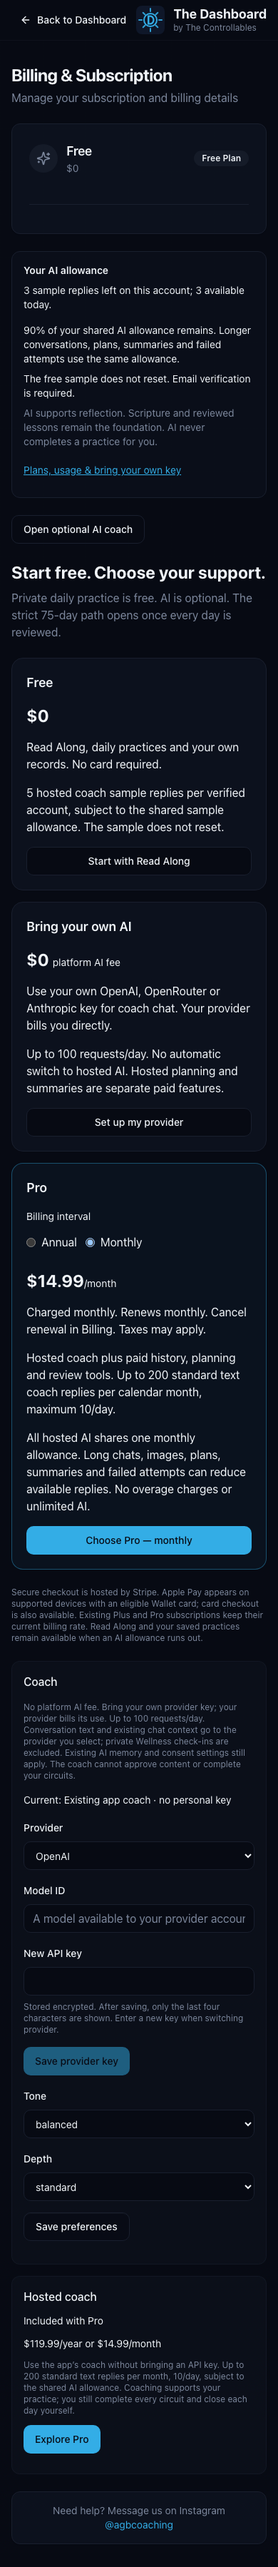
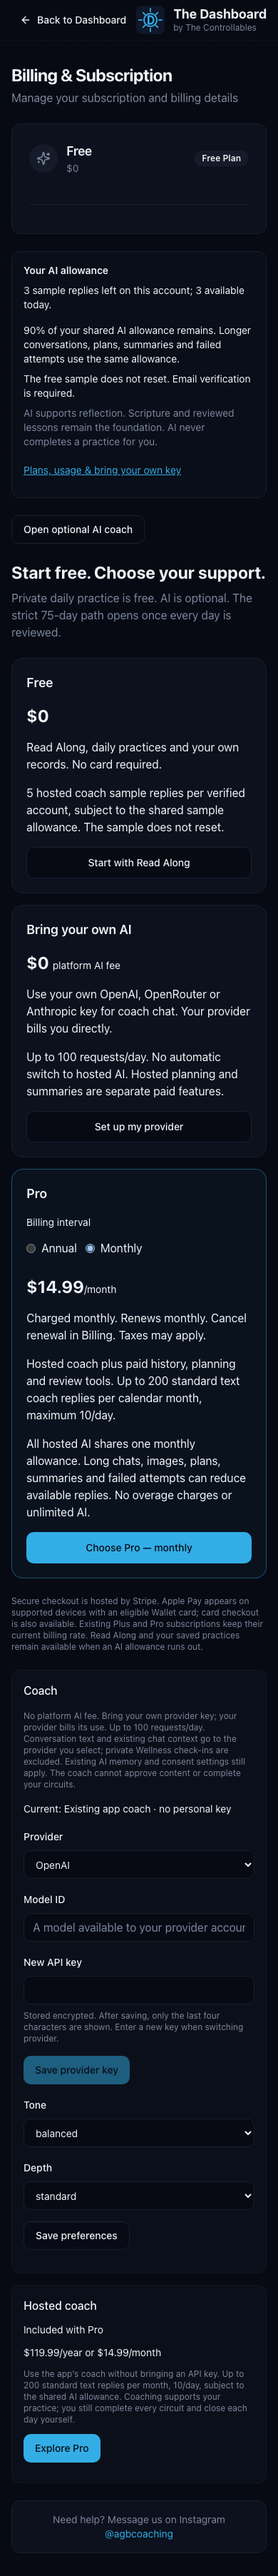
Improve coach accessibility and preserve conversation reset limits

diff --git a/src/components/billing/FreemiumPlans.tsx b/src/components/billing/FreemiumPlans.tsx
@@ -36,7 +36,7 @@ export function FreemiumPlans({
             replies per verified account, subject to the shared sample
             allowance. The sample does not reset.
           </p>
-          <Button asChild variant="outline" className="w-full">
+          <Button asChild variant="outline" className="min-h-11 w-full">
             <Link to="/quick-start?path=read_along">Start with Read Along</Link>
           </Button>
         </article>
@@ -57,7 +57,7 @@ export function FreemiumPlans({
             automatic switch to hosted AI. Hosted planning and summaries are
             separate paid features.
           </p>
-          <Button asChild variant="outline" className="w-full">
+          <Button asChild variant="outline" className="min-h-11 w-full">
             <Link to="/billing#coach-settings">Set up my provider</Link>
           </Button>
         </article>
@@ -104,7 +104,7 @@ export function FreemiumPlans({
           </p>
           {onCheckout ? (
             <Button
-              className="w-full"
+              className="min-h-11 w-full"
               disabled={busy}
               onClick={() => onCheckout(interval)}
             >
@@ -113,7 +113,7 @@ export function FreemiumPlans({
                 : `Choose Pro — ${interval === "year" ? "annual" : "monthly"}`}
             </Button>
           ) : (
-            <Button asChild className="w-full">
+            <Button asChild className="min-h-11 w-full">
               <Link to={`/billing?interval=${interval}`}>Choose Pro</Link>
             </Button>
           )}

diff --git a/src/components/dashboard/ControllableHub.tsx b/src/components/dashboard/ControllableHub.tsx
@@ -347,6 +347,8 @@ export const ControllableHub = ({ userId, completedCount, onNavigate }: Controll
 
       <div className="w-full max-w-sm flex gap-2 px-1">
         <Textarea
+          aria-label="Message to your coach"
+          maxLength={4000}
           ref={textareaRef}
           value={input}
           onChange={(event) => setInput(event.target.value)}
@@ -357,6 +359,7 @@ export const ControllableHub = ({ userId, completedCount, onNavigate }: Controll
           disabled={isLoading}
         />
         <Button
+          aria-label="Send message"
           size="icon"
           className="h-[44px] w-[44px] shrink-0 self-end"
           onClick={handleSend}
@@ -365,6 +368,8 @@ export const ControllableHub = ({ userId, completedCount, onNavigate }: Controll
           <Send className="w-4 h-4" />
         </Button>
       </div>
+
+      {hasConversation&&<Button variant="outline" className="mt-3 min-h-11" disabled={isLoading} onClick={()=>{setMessages([]);setInput("");setActiveControllable(null);}}>New conversation</Button>}
 
       {!hasConversation && (
         <p className="text-[10px] text-muted-foreground/60 mt-1.5">

diff --git a/tests/e2e/freemium-checkout-local.spec.ts b/tests/e2e/freemium-checkout-local.spec.ts
@@ -240,6 +240,9 @@ test("verified free customers can reach an optional coach and read a JSON reply"
     ),
   ).toBeVisible();
   expect(calls).toBe(1);
+  const coachAxe=await new AxeBuilder({page}).include('[data-testid="optional-coach"]').analyze();
+  expect(coachAxe.violations.filter(v=>["serious","critical"].includes(v.impact??""))).toEqual([]);
+
   await page.evaluate(() => {
     window.scrollTo(0, 0);
     document.querySelectorAll("main").forEach((m) => m.scrollTo(0, 0));

diff --git a/src/pages/Coach.tsx b/src/pages/Coach.tsx
@@ -6,7 +6,7 @@ export default function Coach() {
   const user = useLifeOSUser();
   const navigate=useNavigate();
   return (
-    <div className="mx-auto w-full max-w-3xl space-y-6 p-4 sm:p-6">
+    <div data-testid="optional-coach" className="mx-auto w-full max-w-3xl space-y-6 p-4 sm:p-6">
       <header className="space-y-2">
         <Link
           to="/formation/today"
